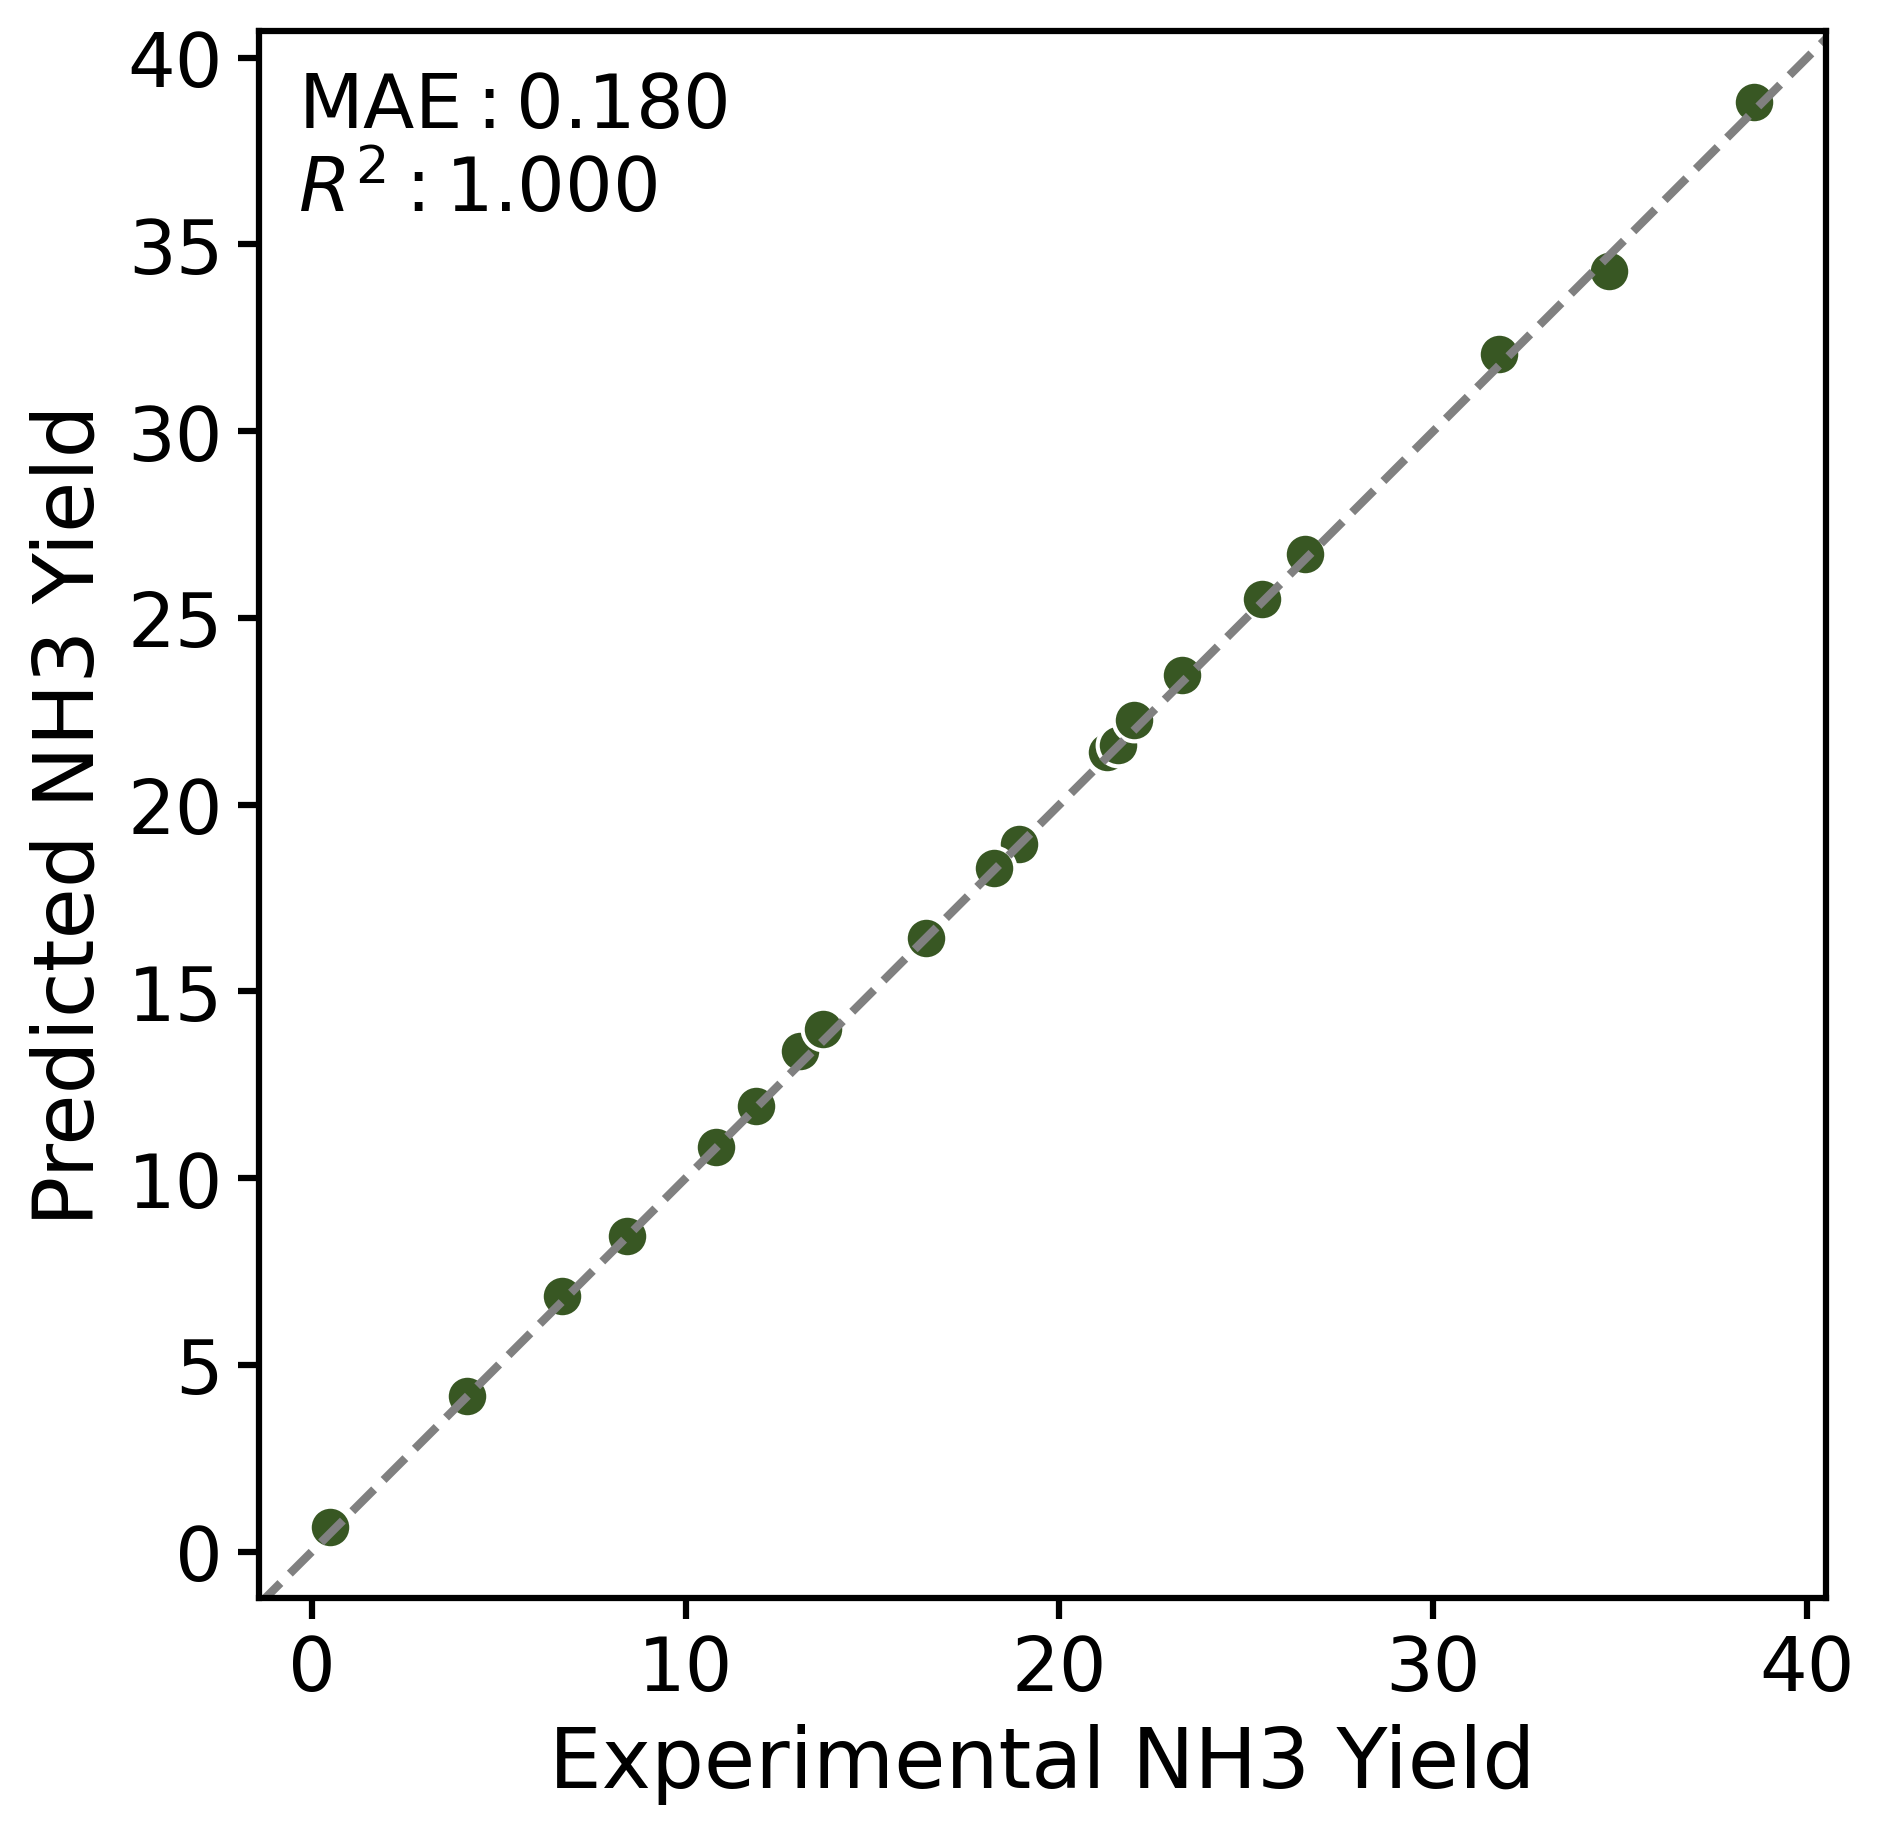
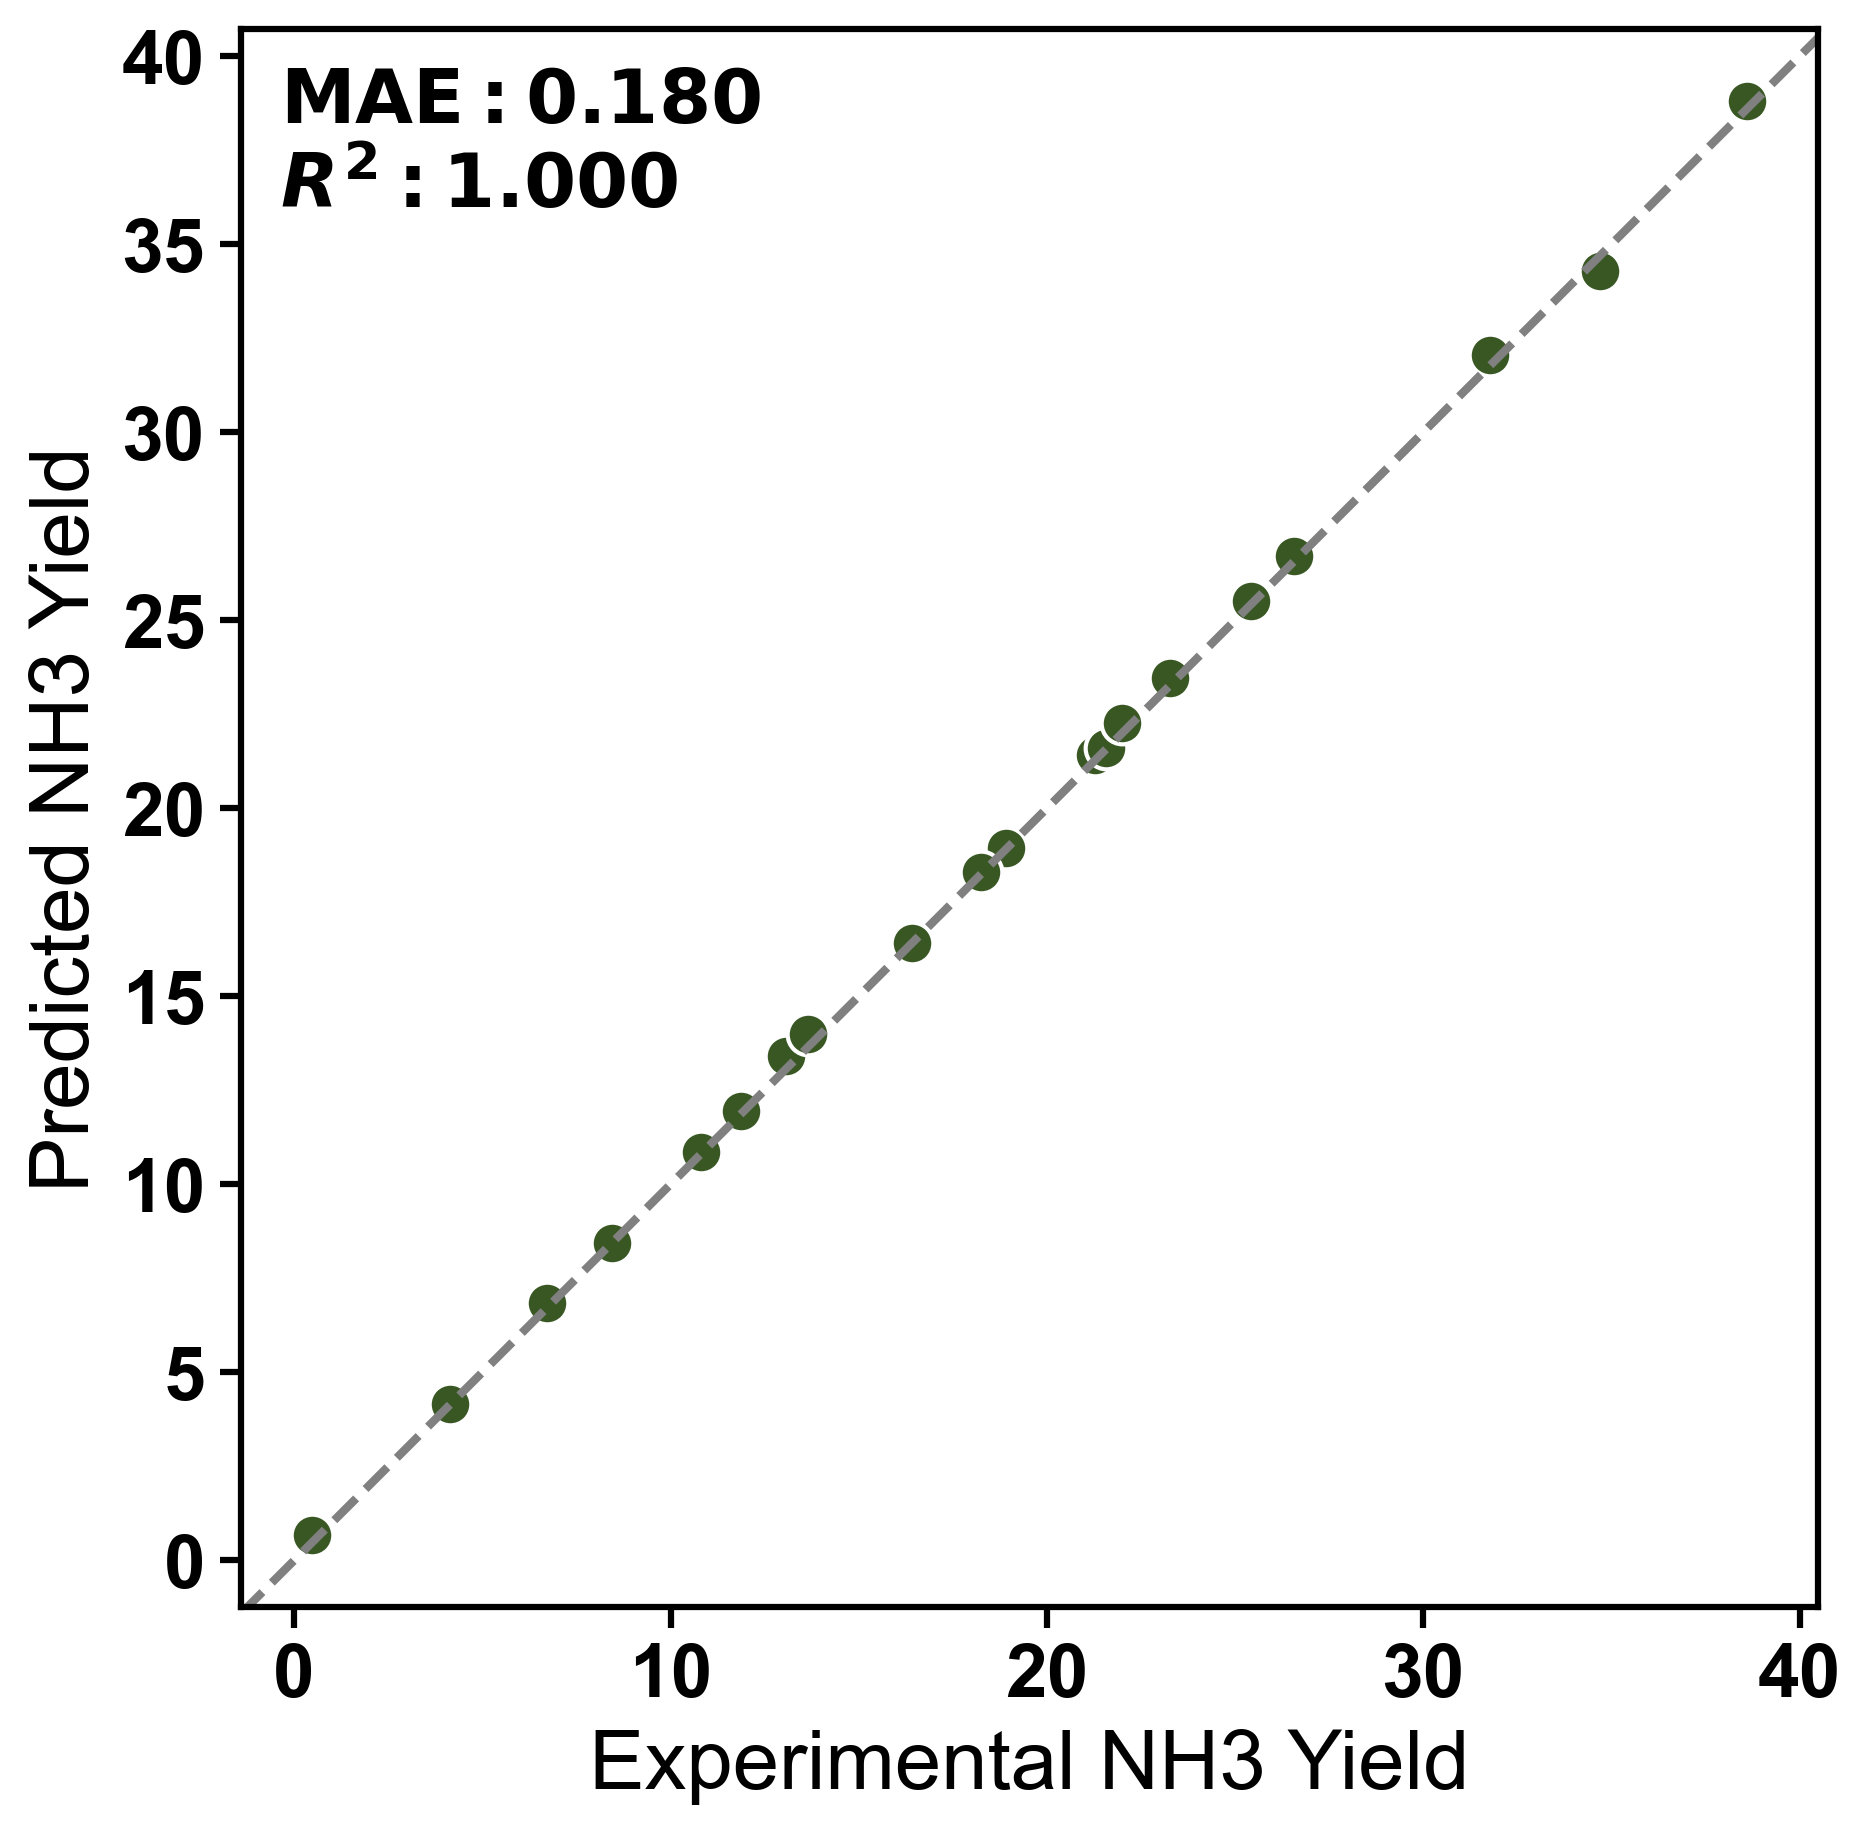
apply arial

diff --git a/01_train_xgboost.py b/01_train_xgboost.py
@@ -10,6 +10,10 @@ from plot_utils import plot_scatter
 
 warnings.filterwarnings("ignore")
 
+# Set font to Arial Bold
+plt.rcParams['font.family'] = 'Arial'
+plt.rcParams['font.weight'] = 'bold'
+
 # Load data
 data = pd.read_csv("data/processed/data.csv")
 X = data.drop(["Faradic Effecency", "NH3 Yield"], axis=1)
@@ -63,6 +67,13 @@ plt.figure()
 explainer = shap.Explainer(model1, X)
 shap_values = explainer(X)
 shap.summary_plot(shap_values, X, show=False)
+plt.xlabel("SHAP value")
+# Add frame to the plot
+ax = plt.gca()
+for spine in ax.spines.values():
+    spine.set_visible(True)
+    spine.set_linewidth(1)
+    spine.set_color('black')
 plt.tight_layout()
 plt.savefig("figure/shap_values_xgboost_faradic.png", dpi=300, bbox_inches="tight")
 plt.close()
@@ -72,6 +83,13 @@ plt.figure()
 explainer = shap.Explainer(model2, X)
 shap_values = explainer(X)
 shap.summary_plot(shap_values, X, show=False)
+plt.xlabel("SHAP value")
+# Add frame to the plot
+ax = plt.gca()
+for spine in ax.spines.values():
+    spine.set_visible(True)
+    spine.set_linewidth(1)
+    spine.set_color('black')
 plt.tight_layout()
 plt.savefig("figure/shap_values_xgboost_nh3.png", dpi=300, bbox_inches="tight")
 plt.close()

diff --git a/plot_utils.py b/plot_utils.py
@@ -8,7 +8,9 @@ import pandas as pd
 # Global variables
 # ----------------------------------------------------------------------
 
-PLOT_RC_PARAMS: dict[str, float | int] = {
+PLOT_RC_PARAMS: dict[str, float | int | str] = {
+    "font.family": "Arial",
+    "font.weight": "bold",
     "font.size": 18,
     "axes.labelsize": 20,
     "axes.linewidth": 1.5,
